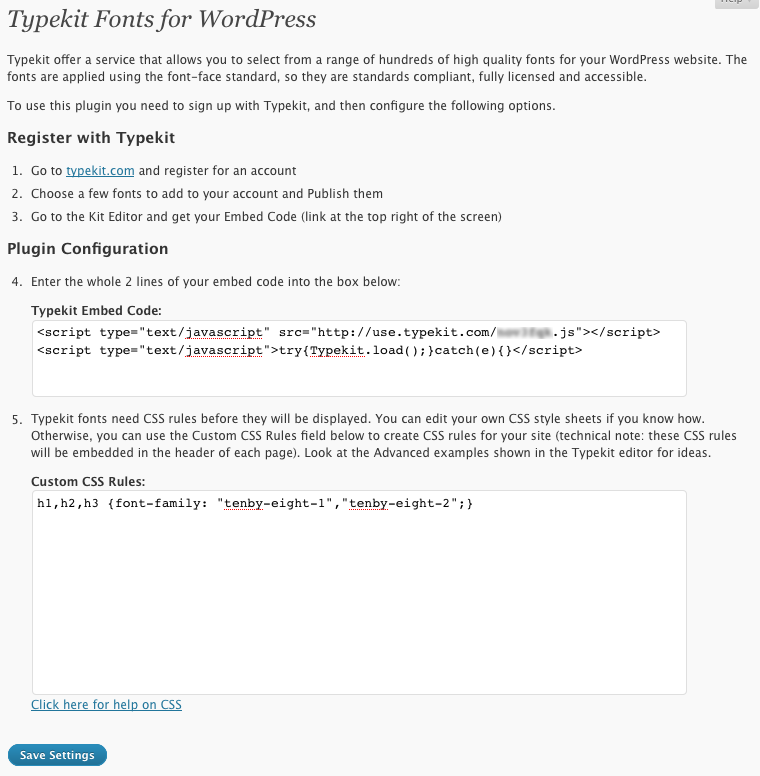
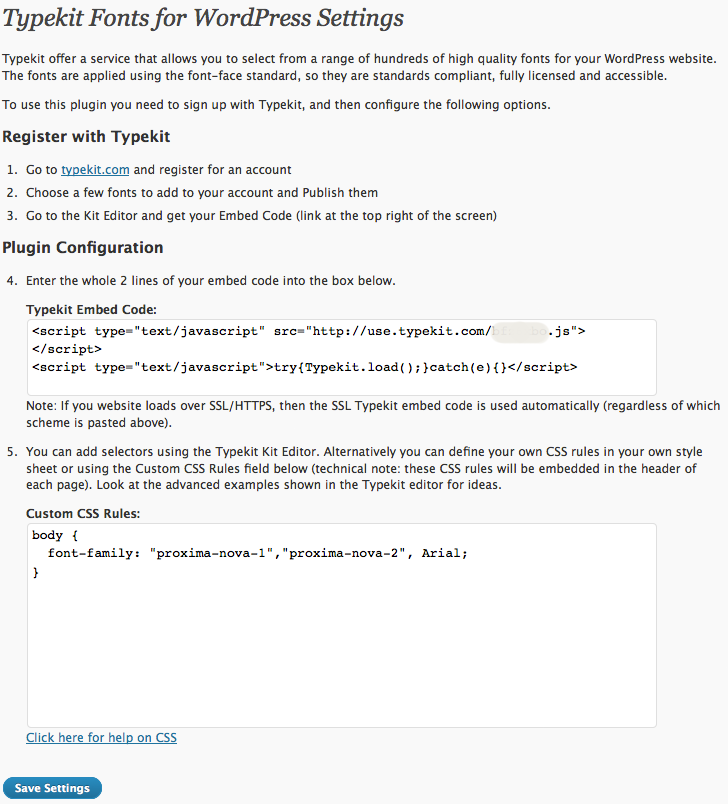
Typekit Fonts for WordPress v1.0.3.
git-svn-id: https://plugins.svn.wordpress.org/typekit-fonts-for-wordpress/trunk@279974 b8457f37-d9ea-0310-8a92-e5e31aec5664

diff --git a/typekit.php b/typekit.php
@@ -3,7 +3,7 @@
 Plugin Name: Typekit Fonts for WordPress
 Plugin URI: http://om4.com.au/wordpress-plugins/typekit-fonts-for-wordpress-plugin/
 Description: Use a range of hundreds of high quality fonts on your WordPress website by integrating the <a href="http://typekit.com">Typekit</a> font service into your WordPress blog.
-Version: 1.0.2
+Version: 1.0.3
 Author: OM4
 Author URI: http://om4.com.au/
 Text Domain: om4-typekit
@@ -39,7 +39,7 @@ class OM4_Typekit {
 	
 	var $admin;
 	
-	var $embedcode = '<script type="text/javascript" src="http://use.typekit.com/%s.js"></script>
+	var $embedcode = '<script type="text/javascript" src="%s://use.typekit.com/%s.js"></script>
 <script type="text/javascript">try{Typekit.load();}catch(e){}</script>';
 	
 	/**
@@ -49,14 +49,14 @@ class OM4_Typekit {
 	 * 
 	 * @var string
 	 */
-	var $embedcoderegexp = '#http://use\.typekit\.com/([a-z0-9]*)\.js#i';
+	var $embedcoderegexp = '#http(s?)://use\.typekit\.com/([a-z0-9]*)\.js#i';
 	
 	/**
 	 * The format for the Typekit JS file URL
 	 * 
 	 * @var string
 	 */
-	var $embedcodeurl = 'http://use.typekit.com/%s.js';
+	var $embedcodeurl = '%s://use.typekit.com/%s.js';
 	
 	/*
 	 * Default settings
@@ -65,6 +65,15 @@ class OM4_Typekit {
 		'id'=> '',
 		'css' => ''
 	);
+
+	/*
+	 * HTTP scheme.
+	 *
+	 * HTTP by deafult, or HTTPS if the site is being loaded over SSL.
+	 *
+	 * @var string
+	 */
+	var $scheme = 'http';
 	
 	/**
 	 * Class Constructor
@@ -86,6 +95,8 @@ class OM4_Typekit {
 			$this->installedVersion = intval($data['version']);
 			$this->settings = $data['settings'];
 		}
+
+		if ( is_ssl() ) $this->scheme = 'https';
 	}
 	
 	/**
@@ -152,7 +163,7 @@ class OM4_Typekit {
 	 * @return string The typekit embed code if the unique account ID has been set, otherwise an empty string
 	 */
 	function GetEmbedCode() {
-		if ('' != $id = $this->GetAccountID()) return sprintf($this->embedcode, $id);
+		if ('' != $id = $this->GetAccountID()) return sprintf($this->embedcode, $this->scheme, $id);
 		return '';
 	}
 	
@@ -173,9 +184,9 @@ class OM4_Typekit {
 		$matches = array();
 		
 		$this->settings['id'] = '';
-		// Attempt to extract the ID from the embed code using our regular expression
-		if (preg_match($this->embedcoderegexp, $code, $matches) && sizeof($matches) == 2) {
-			$this->settings['id'] = $matches[1];
+		// Attempt to extract the kit ID from the embed code using our regular expression
+		if (preg_match($this->embedcoderegexp, $code, $matches) && sizeof($matches) == 3) {
+			$this->settings['id'] = $matches[2];
 		}
 	}
 	

diff --git a/typekit-admin.php b/typekit-admin.php
@@ -67,7 +67,7 @@ class OM4_Typekit_Admin {
 					<?php
 				} else {
 					// ensure the Typekit account ID maps to a valid JS file on Typekit's servers (ie doesn't return a 404 error)
-					$url = sprintf($this->typekitInstance->embedcodeurl, $id);
+					$url = sprintf($this->typekitInstance->embedcodeurl, $this->typekitInstance->scheme, $id);
 					$result = wp_remote_head($url);
 					if (is_array($result) && $result['response']['code'] == 404) {
 						?>
@@ -100,8 +100,9 @@ class OM4_Typekit_Admin {
 		</ol>
 		<h3><?php _e('Plugin Configuration', 'om4-typekit'); ?></h3>
 		<ol start="4">
-			<li><?php _e('Enter the whole 2 lines of your embed code into the box below:', 'om4-typekit'); ?><br />
-				<p class="option"><label for="embedcode"><?php _e('Typekit Embed Code:', 'om4-typekit'); ?></label> <textarea name="embedcode" rows="3" cols="80" /><?php echo $this->typekitInstance->GetEmbedCode(); ?></textarea></p>
+			<li><?php _e('Enter the whole 2 lines of your embed code into the box below.', 'om4-typekit'); ?><br />
+				<p class="option"><label for="embedcode"><?php _e('Typekit Embed Code:', 'om4-typekit'); ?></label> <textarea name="embedcode" rows="3" cols="80" /><?php echo $this->typekitInstance->GetEmbedCode(); ?></textarea><br />
+				<?php _e('Note: If you website loads over SSL/HTTPS, then the SSL Typekit embed code is used automatically (regardless of which scheme is pasted above).', 'om4-typekit'); ?></p>
 
 			</li>
 			<li><?php _e('You can add selectors using the Typekit Kit Editor. Alternatively you can define your own CSS rules in your own style sheet or using the Custom CSS Rules field below (technical note: these CSS rules will be embedded in the header of each page). Look at the advanced examples shown in the Typekit editor for ideas.', 'om4-typekit'); ?>
